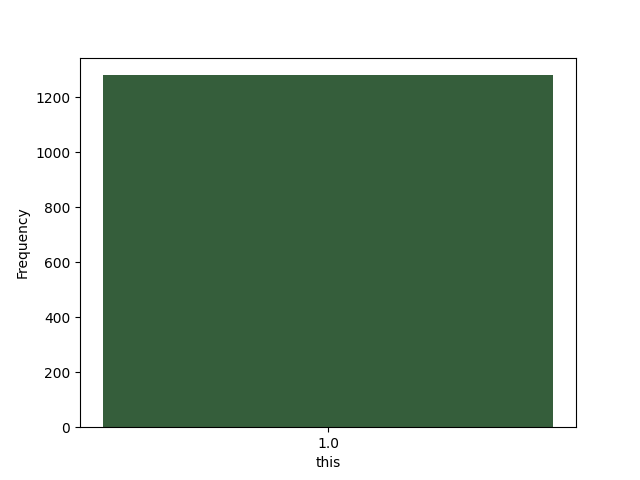
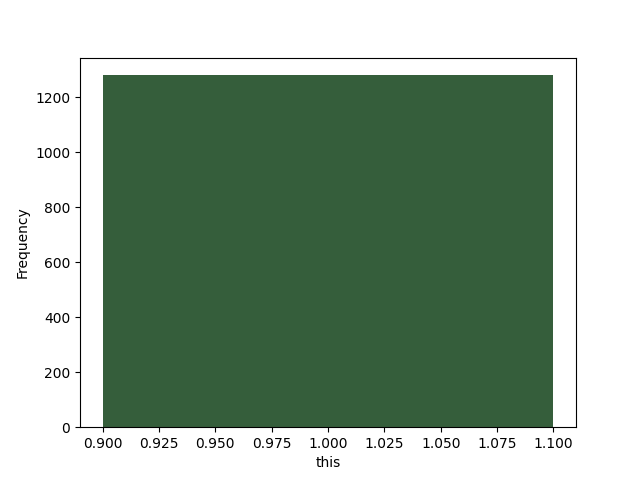
test(L2:E1): replot graph

diff --git a/Lab_2/Exercise1/try.py b/Lab_2/Exercise1/try.py
@@ -2,7 +2,7 @@
 from nltk.book import text1
 from matplotlib import pyplot as plt
 from nltk.probability import FreqDist
-from matplotlib.ticker import MultipleLocator
+#from matplotlib.ticker import MultipleLocator
 
 # words = ["the", "and"]
 word = "this"
@@ -11,8 +11,8 @@ word_freq = freqDist[word]
 x = [1]
 y = [word_freq]
 print(x, y)
-plt.bar(x, y, color="#355E3B")
+plt.bar(x, y, color="#355E3B", width=0.2)
 plt.xlabel(word)
-plt.gca().xaxis.set_major_locator(MultipleLocator(0.5))
+#plt.gca().xaxis.set_major_locator(MultipleLocator(0.5))
 plt.ylabel("Frequency")
 plt.savefig("text1_plot_this")
